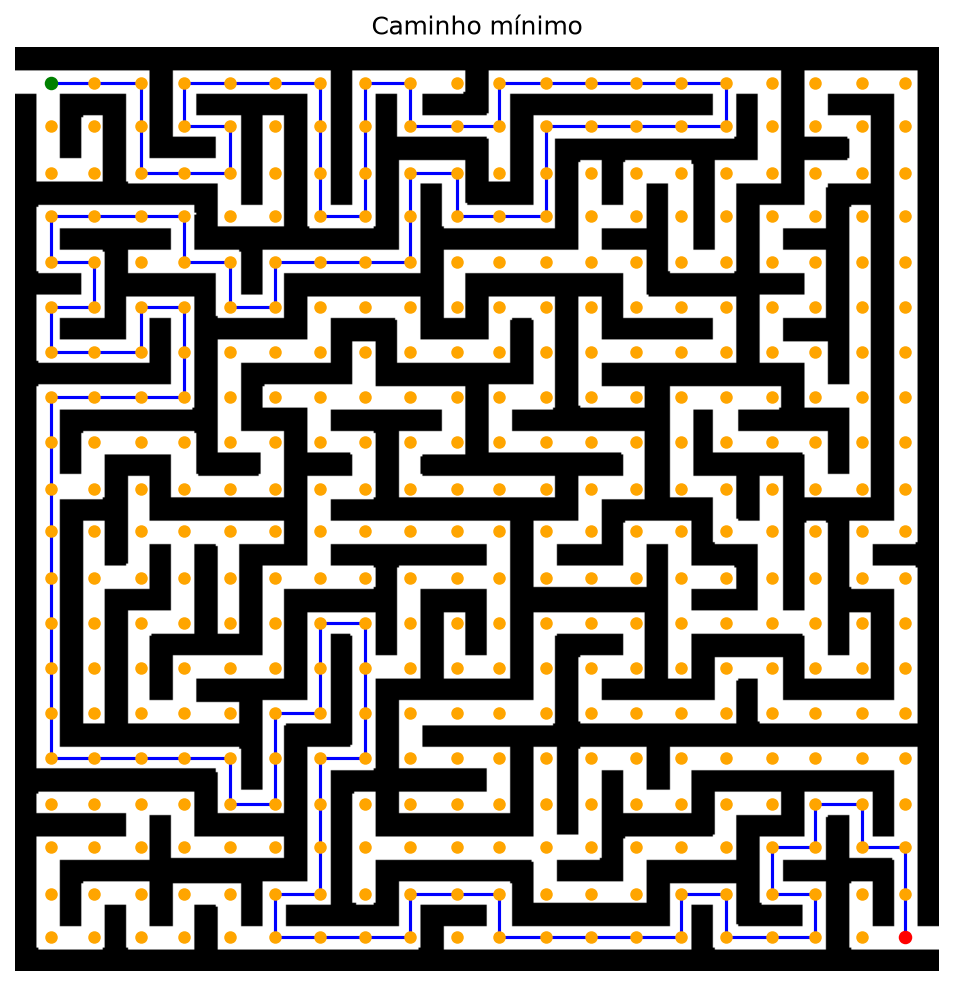
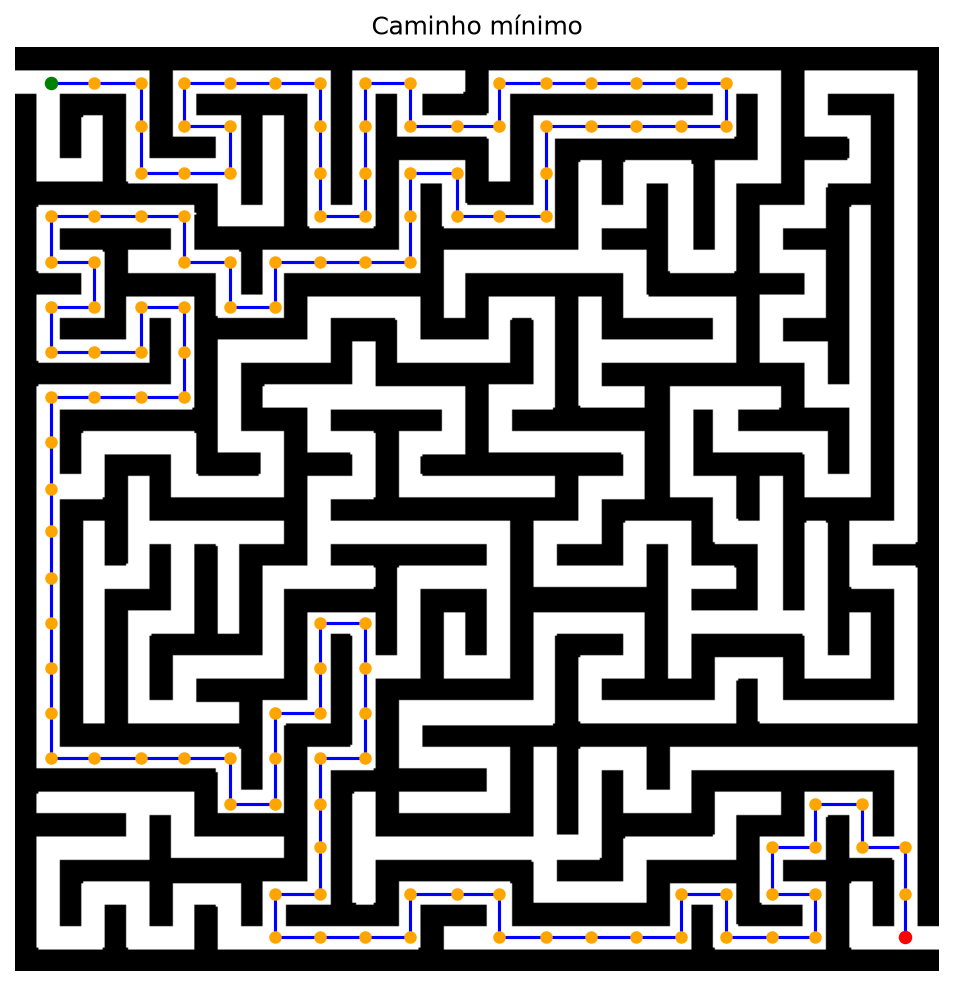
Produz imagens corretamente

diff --git a/shortest_path/parte_7.py b/shortest_path/parte_7.py
@@ -18,12 +18,13 @@ caminho = reconstruir_caminho(anterior, 1, 400)
 fim = time.perf_counter()
 print(f'Tempo total: {fim - inicio} s')
 
+# apenas o caminho mínimo sobre o labirinto
 plt.figure(figsize=(8, 8))
 plt.axis('off')
 plt.imshow(M, cmap='gray')
-plt.title('Caminho mínimo')
+plt.title('Apenas caminho mínimo')
 
-# Plotando as arestas do grafo
+# plotando as arestas do grafo
 for u in caminho:
     x1, y1 = celulas[u]["centro"]
     for v in grafo[u]:
@@ -31,15 +32,51 @@ for u in caminho:
             x2, y2 = celulas[v]["centro"]
             plt.plot([x1, x2], [y1, y2], color='blue', linewidth=1.5)
 
-# Desenha os vértices
-x_coords = [celulas[v]["centro"][0] for v in celulas]
-y_coords = [celulas[v]["centro"][1] for v in celulas]
+# desenha os vértices
+x_coords = [celulas[v]["centro"][0] for v in caminho]
+y_coords = [celulas[v]["centro"][1] for v in caminho]
 
 plt.scatter(x_coords[1:-1], y_coords[1:-1], c='orange', s=25, zorder=2)
 plt.scatter(x_coords[0], y_coords[0], c='green', s=30, zorder=2)
 plt.scatter(x_coords[-1], y_coords[-1], c='red', s=30, zorder=2)
 
-# Salva a imagem em 'img'
+# salva a imagem em 'img'
 os.makedirs('../img', exist_ok=True)
-plt.savefig('../img/caminho_minimo.png', dpi=150, bbox_inches='tight')
+plt.savefig('../img/apenas_caminho_minimo.png', dpi=150, bbox_inches='tight')
+plt.show()
+
+
+# grafo completo com caminho mínimo destacado
+plt.figure(figsize=(8, 8))
+plt.axis('off')
+plt.imshow(M, cmap='gray')
+plt.title('Grafo com caminho mínimo')
+
+# plotando as arestas do grafo
+for u in celulas:
+    x1, y1 = celulas[u]["centro"]
+    for v in grafo[u]:
+        if u < v:
+            x2, y2 = celulas[v]["centro"]
+            if u in caminho and v in caminho:
+                plt.plot([x1, x2], [y1, y2], color='red', linewidth=1.5)
+            else:
+                plt.plot([x1, x2], [y1, y2], color='blue', linewidth=1.5)
+
+# desenha os vértices
+x_coords = [celulas[v]["centro"][0] for v in caminho]
+y_coords = [celulas[v]["centro"][1] for v in caminho]
+
+plt.scatter(x_coords[1:-1], y_coords[1:-1], c='black', s=25, zorder=2)
+plt.scatter(x_coords[0], y_coords[0], c='green', s=30, zorder=2)
+plt.scatter(x_coords[-1], y_coords[-1], c='red', s=30, zorder=2)
+
+x_coords = [celulas[v]["centro"][0] for v in celulas if v not in caminho]
+y_coords = [celulas[v]["centro"][1] for v in celulas if v not in caminho]
+plt.scatter(x_coords, y_coords, c='orange', s=25, zorder=2)
+
+
+# salva a imagem em 'img'
+os.makedirs('../img', exist_ok=True)
+plt.savefig('../img/grafo_com_caminho_minimo.png', dpi=150, bbox_inches='tight')
 plt.show()
